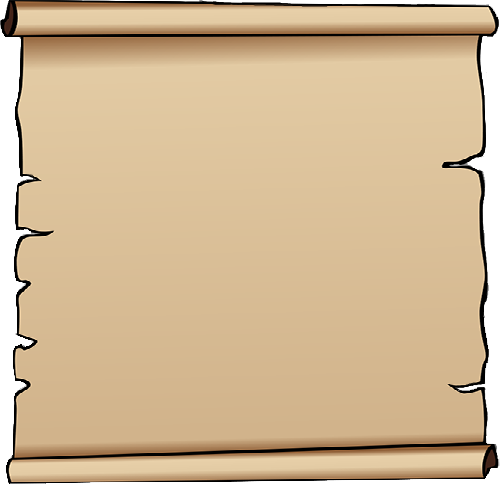
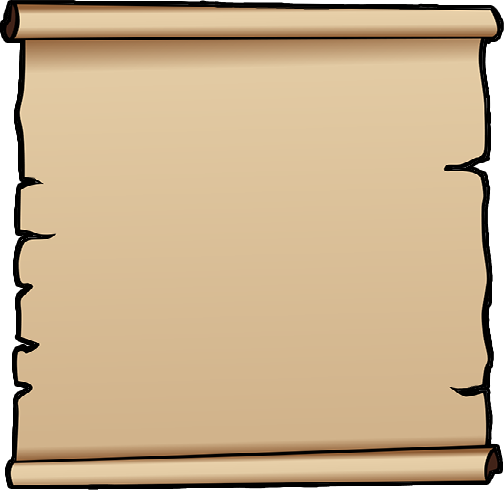
Edit store graphics

Changed region(s): [[0.0, 0.0, 1.0, 1.0]]

diff --git a/mmo/public/styling.css b/mmo/public/styling.css
@@ -272,11 +272,19 @@ div.leaderboards tbody:nth-child(even) {
      display: none;
      position: relative;
      width: 600px;
-	 height: 407px;
+	 height: 450px;
      background-color: #fff;
      border-radius: 3px;
      font-family: profont;
      padding-bottom: 10px;
+}
+
+.quests .quit-current {
+	width: 100%;
+	margin-top: 10px;
+	font-size: 25px;
+	color: #fff;
+	background-color: #A90000;
 }
 
 .quests .title {
@@ -387,27 +395,31 @@ div.leaderboards tbody:nth-child(even) {
 }
 
 .store {
-     display: none;
-     position: relative;
-     width: 600px;
-     height: 635px;
-     background-color: #fff;
-     border-radius: 3px;
-     font-family: profont;
-     margin-top: -30px;
-     box-shadow: 0px 0px 10px #252525;
+    display: none;
+    position: relative;
+    width: 620px;
+    height: 600px;
+    /* background-color: #fff; */
+    border-radius: 3px;
+    background-image: url(styles/images/login-bg.png);
+    background-size: cover;
+    font-family: profont;
+    margin-top: -30px;
+    /* box-shadow: 0px 0px 10px #252525; */
 }
 
 .store .title {
-     font-size: 50px;
-     color: #000;
+    position: relative;
+    top: 35px;
+    font-size: 50px;
+    color: #000;
 }
 
 .store .nav {
-     position: absolute;
-     top: 12px;
-     left: 15px;
-     font-size: 17px;
+    position: absolute;
+    top: 45px;
+    left: 40px;
+    font-size: 17px;
 }
 
 .nav .type a {
@@ -430,6 +442,11 @@ div.leaderboards tbody:nth-child(even) {
      font-size: 18px;
 }
 
+.sub-store {
+    transform: scale(0.85, 0.85);
+    margin-top: 15px;
+}
+
 .sub-store .store-item {
      display: inline-block;
      float: left;
@@ -440,7 +457,7 @@ div.leaderboards tbody:nth-child(even) {
 }
 
 .store-item:hover {
-     background-color: #eaeaea;
+     background-color: rgba(0, 0, 0, 0.1);
 }
 
 .store-item .image {

diff --git a/mmo/public/index.html b/mmo/public/index.html
@@ -139,10 +139,11 @@
 
 					<span class="title">Quest Journal</span>
 					<div class="list" id="quests-list"></div>
+					<input id="quit-button" class="button quit-current" type="submit" value="Quit current quest" onclick="me().quitQuest()"></input>
 				</div>
 
 				<div id="store" class="store unselectable">
-					<span class="close-button unselectable" onclick="screen.hideMenu()">x</span>
+					<span class="close-button unselectable" style="position: absolute;top: 5px;right: 20px;color: #3c3c3c;" onclick="screen.hideMenu()">x</span>
 					<span class="title">Armory</span>
 					<div class="nav">
 						<span class="type"><a href="#" onclick="armory.showArmorStore()">Armor</a></span>
